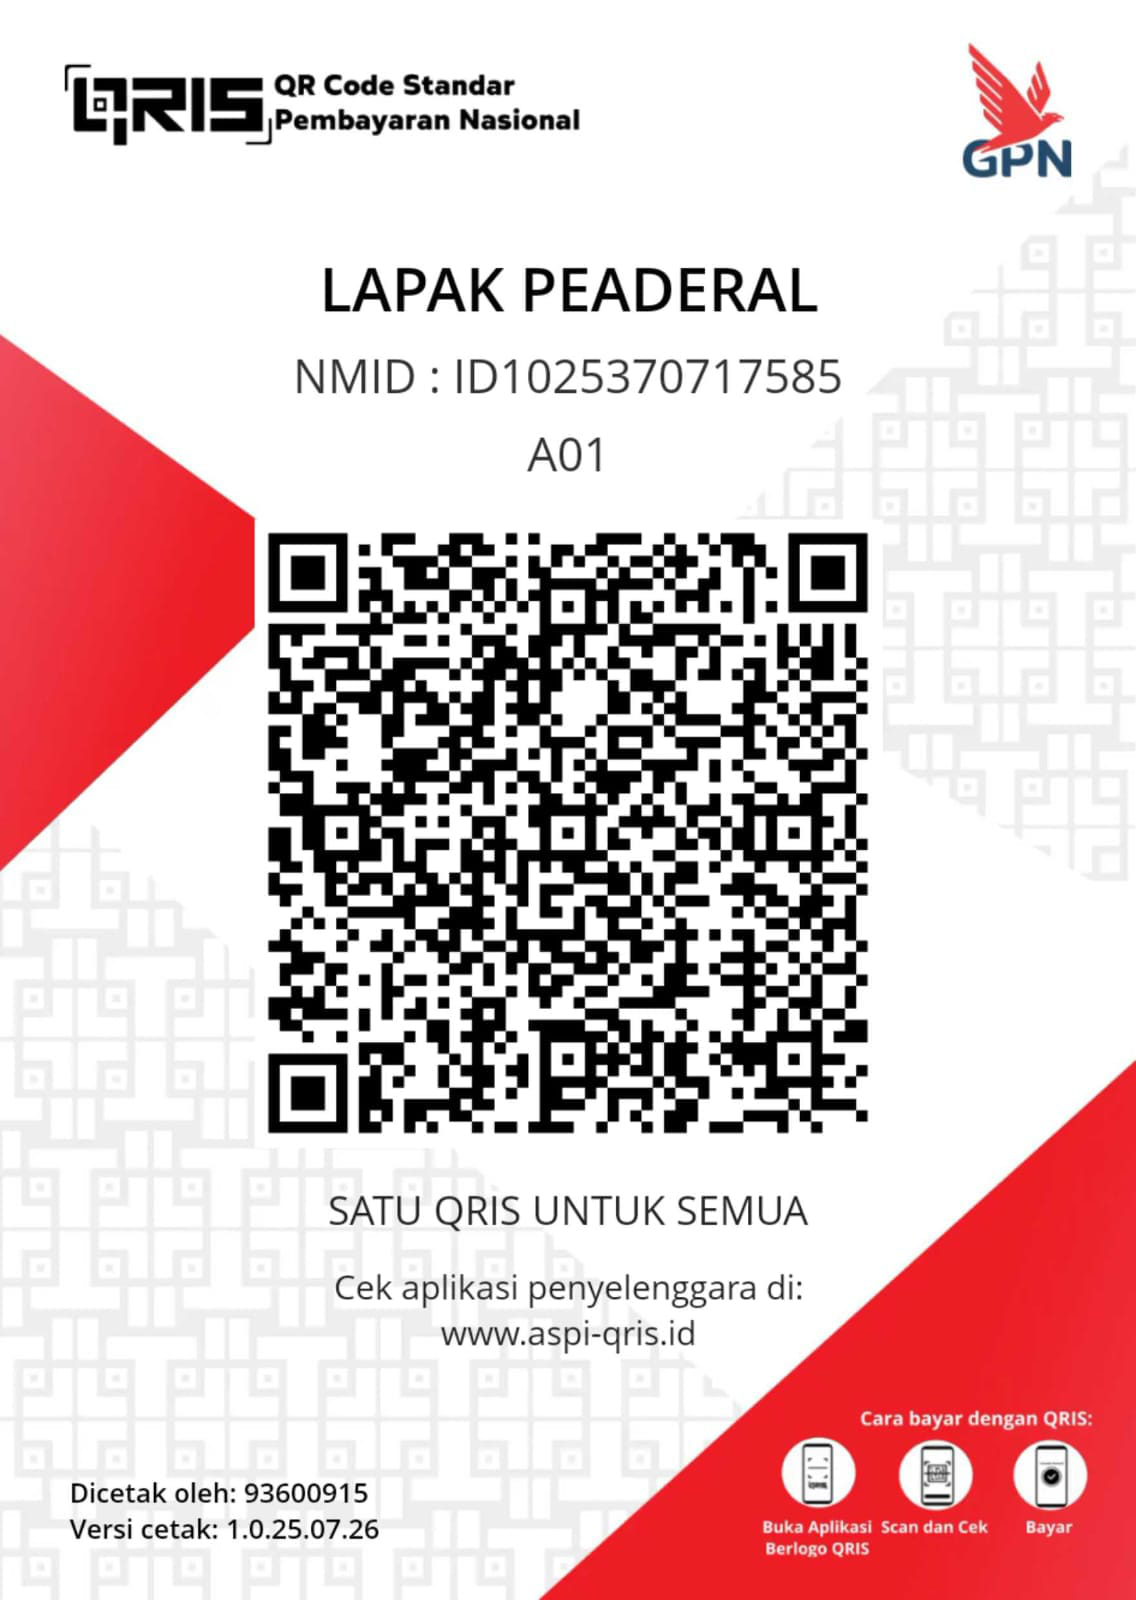
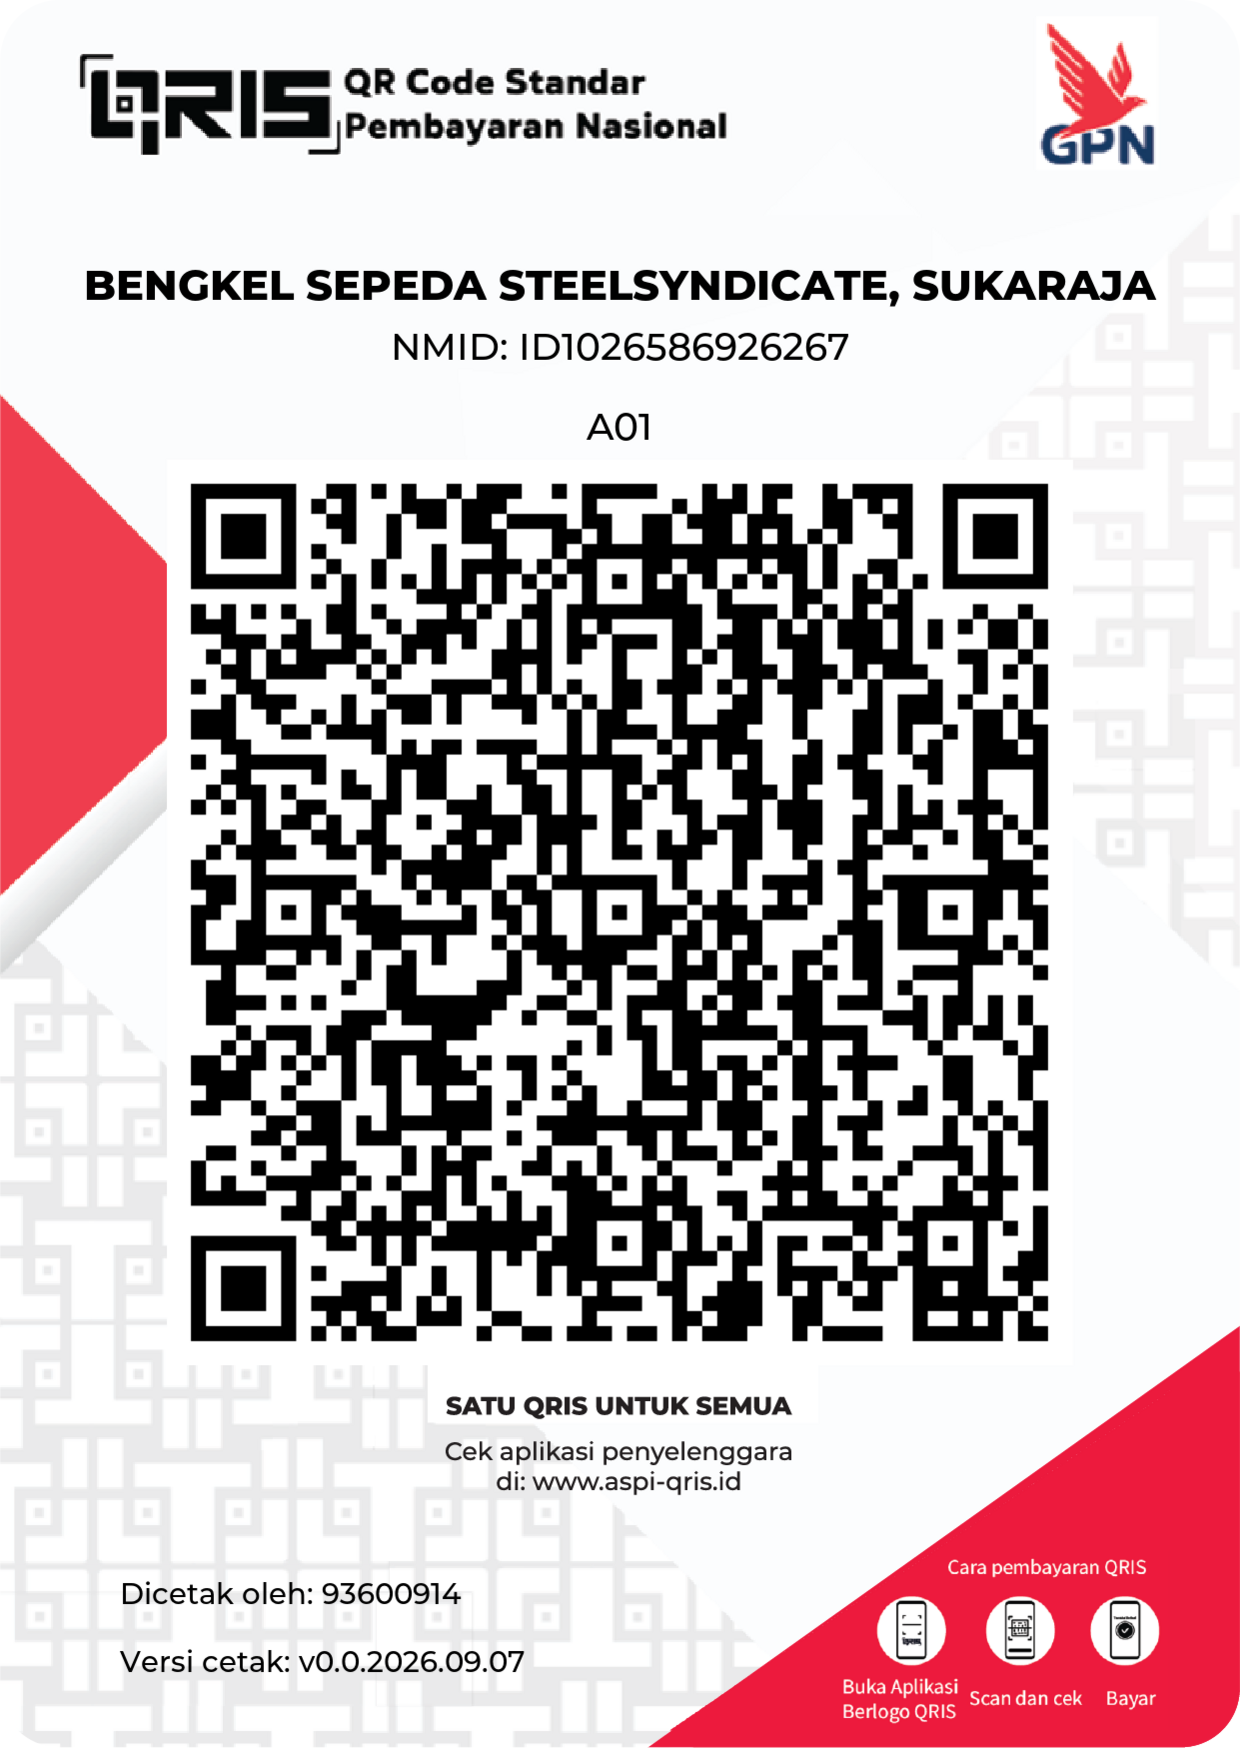
update: apply new official QRIS Steel Syndicate and optimized jersey design with cache-busting

diff --git a/app/pembayaran/[nomor_registrasi]/page.tsx b/app/pembayaran/[nomor_registrasi]/page.tsx
@@ -215,12 +215,12 @@ export default function PembayaranPage() {
 
             {/* QRIS Statis Image - Clean & Prominent without badge */}
             <div className="text-center py-2">
-              <p className="text-xs font-bold text-slate-800 mb-3">Scan Kode QRIS Statis Panitia (PEADERAL):</p>
+              <p className="text-xs font-bold text-slate-800 mb-3">Scan Kode QRIS Statis Panitia:</p>
               <div className="flex justify-center">
                 <img
-                  src={settings?.qris_image_url || '/qris-peaderal.png'}
+                  src={`${settings?.qris_image_url || '/qris-peaderal.png'}?v=20260908`}
                   alt="QRIS Statis Panitia"
-                  className="w-64 sm:w-72 md:w-80 h-auto mx-auto block"
+                  className="w-64 sm:w-72 md:w-80 h-auto mx-auto block rounded-xl shadow-sm border border-slate-100"
                 />
               </div>
               <p className="text-[11px] text-slate-500 mt-3 font-medium">

diff --git a/app/page.tsx b/app/page.tsx
@@ -155,9 +155,9 @@ export default async function HomePage() {
             {/* Constrained Container for High Resolution Image */}
             <div className="relative rounded-xl sm:rounded-2xl overflow-hidden bg-white/5 border border-white/10 p-1 sm:p-2 flex items-center justify-center">
               <img
-                src="/images/design_jersey.png"
+                src="/images/design_jersey.jpg?v=20260908"
                 alt="Desain Official Jersey PEADERAL x RUDEBOYS"
-                className="max-h-[280px] sm:max-h-[420px] md:max-h-[500px] w-auto h-auto object-contain mx-auto rounded-lg"
+                className="max-h-[280px] sm:max-h-[420px] md:max-h-[500px] w-auto h-auto object-contain mx-auto rounded-lg shadow-lg"
               />
             </div>
 

diff --git a/app/daftar/page.tsx b/app/daftar/page.tsx
@@ -337,7 +337,7 @@ function DaftarFormContent() {
                 </span>
                 <div className="max-h-[300px] sm:max-h-[350px] w-full flex items-center justify-center overflow-hidden rounded-xl border border-white/10 bg-white/5">
                   <img
-                    src="/images/design_jersey.png"
+                    src="/images/design_jersey.jpg?v=20260908"
                     alt="Official Jersey Design Frame"
                     className="max-h-[290px] sm:max-h-[340px] w-auto h-auto object-contain mx-auto"
                   />

diff --git a/lib/db.ts b/lib/db.ts
@@ -74,7 +74,7 @@ const DEFAULT_SETTINGS: Settings = {
   qris_image_url: '/qris-peaderal.png',
   nomor_rekening: '5220394811',
   nama_bank: 'BCA',
-  nama_pemilik_rekening: 'PERGERAKAN SEPEDAH PEADERAL',
+  nama_pemilik_rekening: 'BENGKEL SEPEDA STEELSYNDICATE',
   tanggal_tutup_po: '2026-09-20T23:59:59',
   tanggal_tutup_pendaftaran: '2026-09-25T23:59:59',
   kontak_wa_panitia: '6281298765432'
